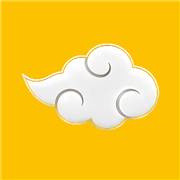
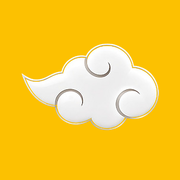
Знак подробнее и резче, WebP вместо тяжёлого PNG

diff --git a/index.html b/index.html
@@ -10,21 +10,21 @@
 <meta name="theme-color" content="#fff8e6" media="(prefers-color-scheme: light)">
 <meta name="theme-color" content="#222222" media="(prefers-color-scheme: dark)">
 <!-- Иконка — фирменный знак, а не буква: облако узнают, «C» на жёлтом квадрате нет -->
-<link rel="icon" href="img/icon.png?v=abcba6b">
-<link rel="apple-touch-icon" href="img/icon.png?v=abcba6b">
+<link rel="icon" href="img/icon.png?v=aa4e625">
+<link rel="apple-touch-icon" href="img/icon.png?v=aa4e625">
 <script src="https://telegram.org/js/telegram-web-app.js"></script>
 <!-- Боевые адреса таблиц и Apps Script. Файл в .gitignore, шаблон — config.example.js.
      При деплое положить рядом с index.html, иначе товары не загрузятся. -->
 <script src="config.js"></script>
 <!-- Порядок значим: каскад рассчитан именно на эту последовательность -->
-<link rel="stylesheet" href="css/tokens.css?v=abcba6b">
-<link rel="stylesheet" href="css/base.css?v=abcba6b">
-<link rel="stylesheet" href="css/layout.css?v=abcba6b">
-<link rel="stylesheet" href="css/catalog.css?v=abcba6b">
-<link rel="stylesheet" href="css/sheets.css?v=abcba6b">
-<link rel="stylesheet" href="css/admin.css?v=abcba6b">
+<link rel="stylesheet" href="css/tokens.css?v=aa4e625">
+<link rel="stylesheet" href="css/base.css?v=aa4e625">
+<link rel="stylesheet" href="css/layout.css?v=aa4e625">
+<link rel="stylesheet" href="css/catalog.css?v=aa4e625">
+<link rel="stylesheet" href="css/sheets.css?v=aa4e625">
+<link rel="stylesheet" href="css/admin.css?v=aa4e625">
 <!-- Заставка последней: она перекрывает всё и ни от чего выше не зависит -->
-<link rel="stylesheet" href="css/splash.css?v=abcba6b">
+<link rel="stylesheet" href="css/splash.css?v=aa4e625">
 </head>
 <body>
 <!-- Заставка открытия: знак, название и подпись проявляются слева направо.

diff --git a/css/splash.css b/css/splash.css
@@ -35,7 +35,13 @@
    наклейкой, приложенной поверх экрана. */
 .splash-logo{
   width:min(58vw,230px); aspect-ratio:232/158;
-  background:url("../img/cloud.png?v=abcba6b") center/contain no-repeat;
+  /* WebP — 32 КБ против 247 у PNG при том же качестве; заставка рисуется
+     первым кадром, и лишняя четверть мегабайта здесь дороже всего. Первая
+     строка остаётся запасной для браузеров без image-set. */
+  background:center/contain no-repeat;
+  background-image:url("../img/cloud.png?v=aa4e625");
+  background-image:image-set(url("../img/cloud.webp?v=aa4e625") type("image/webp"),
+                             url("../img/cloud.png?v=aa4e625") type("image/png"));
   clip-path:inset(0 100% 0 0);
   animation:splash-wipe .9s cubic-bezier(.2,.85,.3,1) .1s forwards;
 }

diff --git a/css/layout.css b/css/layout.css
@@ -26,7 +26,10 @@ header{
    а не быть похожим на него. */
 .logo{
   width:42px; height:42px; flex-shrink:0; border-radius:13px;
-  background:var(--accent) url("../img/logo.png?v=abcba6b") center/cover no-repeat;
+  background:var(--accent) center/cover no-repeat;
+  background-image:url("../img/logo.png?v=aa4e625");
+  background-image:image-set(url("../img/logo.webp?v=aa4e625") type("image/webp"),
+                             url("../img/logo.png?v=aa4e625") type("image/png"));
   box-shadow:var(--shadow);
 }
 /* Заголовок забирает свободное место, поэтому бонусы и смена темы

diff --git a/README.md b/README.md
@@ -15,8 +15,8 @@ config.js           боевые адреса таблиц (вне git, см. ..
 fonts/
   monocraft-*.woff2 пиксельный шрифт, подрезанный под нужные знаки
 img/
-  logo.png          фирменный знак: облако на жёлтой плитке
-  cloud.png         то же облако без подложки, с прозрачностью
+  logo.webp/.png    фирменный знак: облако на жёлтой плитке
+  cloud.webp/.png   то же облако без подложки, с прозрачностью
   icon.png          иконка вкладки и ярлыка
 css/
   tokens.css        палитра и темы
@@ -54,6 +54,21 @@ Google-CDN: часть доменов в Telegram режется, а шрифт,
 
 Знак — картинка из `img/`, а не нарисованный заново SVG: облако должно
 совпадать с тем, что на вывеске, а не быть похожим на него.
+
+Собран он из фирменного изображения, где знак занимает всего 232×158 точек.
+Это потолок: на заставке облако показывается шириной 230 CSS-пикселей, то есть
+на телефоне с тройной плотностью ему нужно 690 точек. Поэтому картинка
+увеличена втрое по Ланцошу, а резкость наведена **только по внутренностям** —
+маска считается по альфе, сжатой внутрь на несколько пикселей. Наведи резкость
+по всему кадру, и по контуру пойдёт светлый ореол: маска нерезкости всегда
+звенит на границе рисунка и фона.
+
+Основной формат — WebP (29 КБ против 236 у PNG при неотличимом качестве),
+PNG остаётся запасным для браузеров без `image-set`. Палитровый PNG пробовался
+и отвергнут: 25 КБ, но по белым скруглениям идёт дизеринг.
+
+Настоящая резкость приедет только с оригиналом логотипа (PNG с прозрачностью
+или вектор) — тогда файлы в `img/` пересобираются из него.
 
 **Порядок подключения CSS значим.** Каскад достался от прежнего единого файла
 и местами держится на последовательности правил, а не на специфичности.
